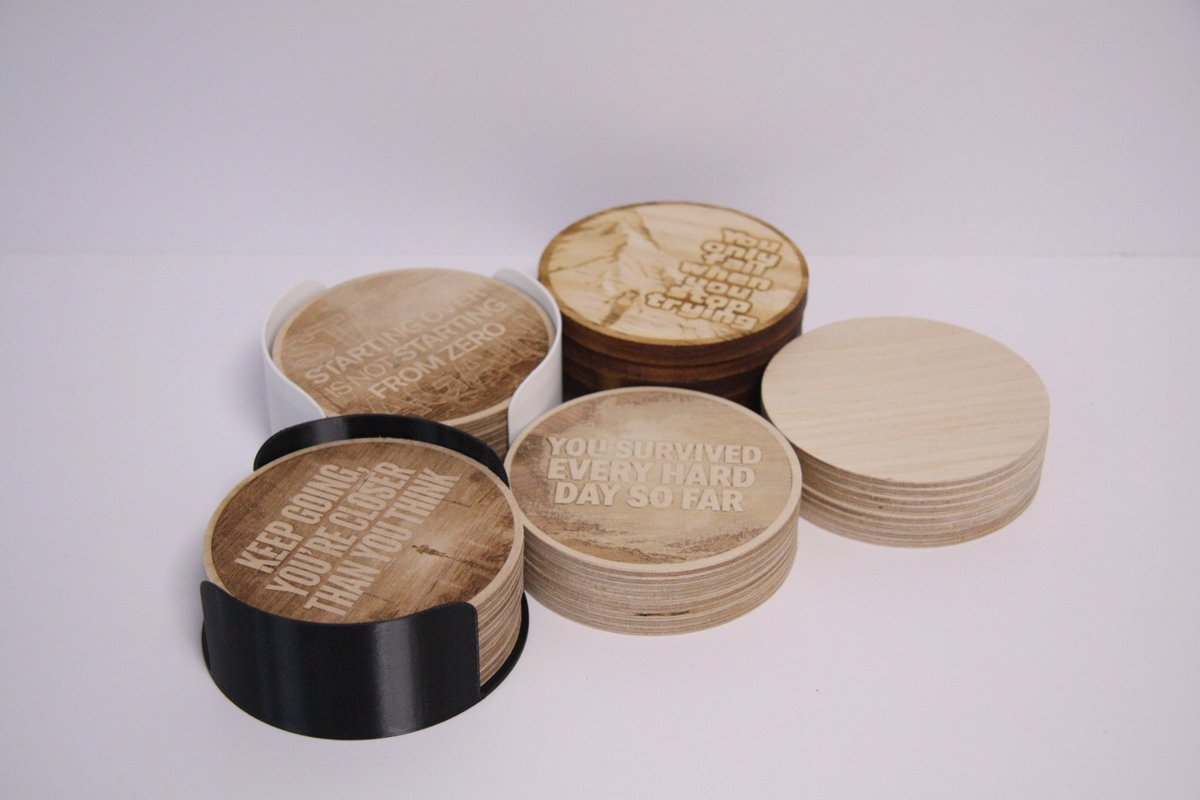
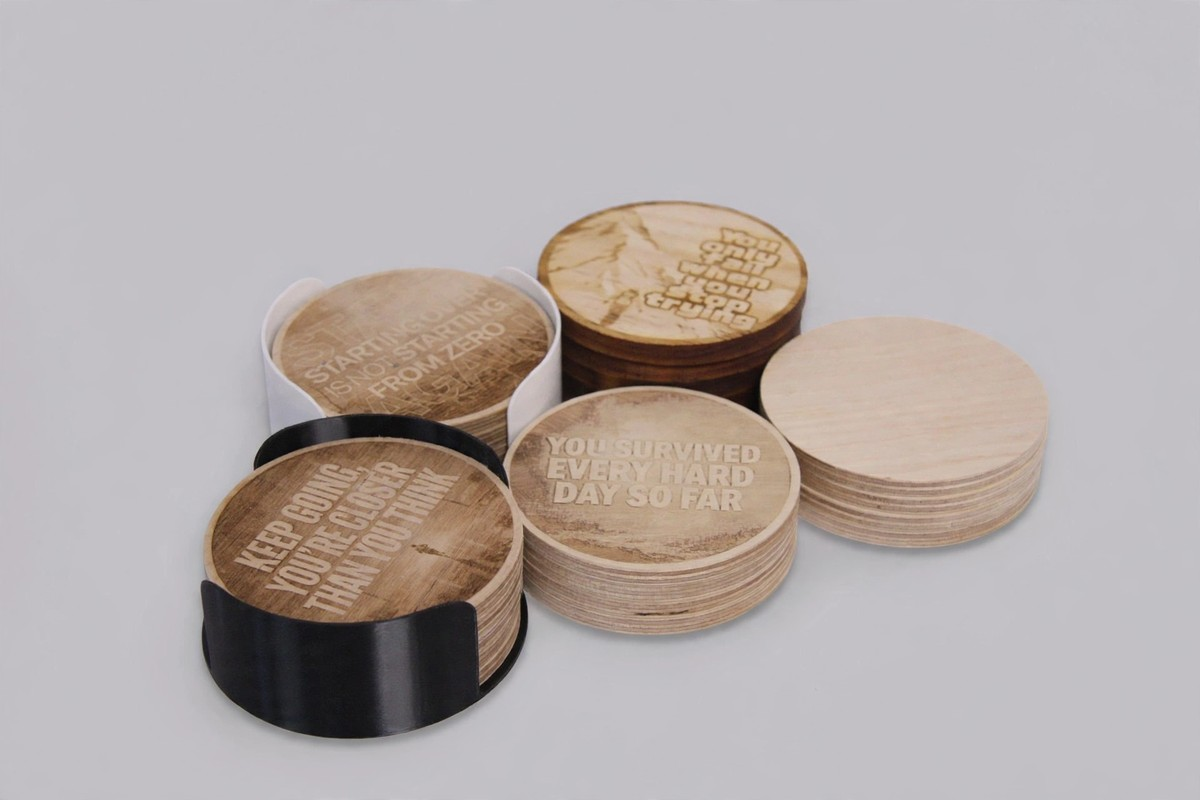
Coasters: swap 9 studio light-grey backgrounds + pine/07 caption fix

diff --git a/src/lib/work.ts b/src/lib/work.ts
@@ -198,7 +198,7 @@ export const workGroups: WorkGroup[] = [
       { src: w("coasters-pine", 2), caption: "Engraved pine coaster set" },
       { src: w("coasters-pine", 3), caption: "Engraved coasters in a row" },
       { src: w("coasters-pine", 6), caption: "Pine coaster set" },
-      { src: w("coasters-pine", 7), caption: "Engraved coasters in a row" },
+      { src: w("coasters-pine", 7), caption: "Engraved coasters in a pile" },
       { src: w("coasters-pine", 8), caption: "Pine coaster designs" },
     ],
   },

diff --git a/src/lib/categories.ts b/src/lib/categories.ts
@@ -570,7 +570,7 @@ export const categories: Category[] = [
         src: "/images/work/coasters-holo/09.jpg",
         caption: "Keep Going — holographic coaster",
       },
-      { src: "/images/work/coasters-pine/07.jpg", caption: "Engraved coasters in a row" },
+      { src: "/images/work/coasters-pine/07.jpg", caption: "Engraved coasters in a pile" },
     ],
     orderTitle: "Coaster Packs — Coming Soon",
     orderSubtitle:
